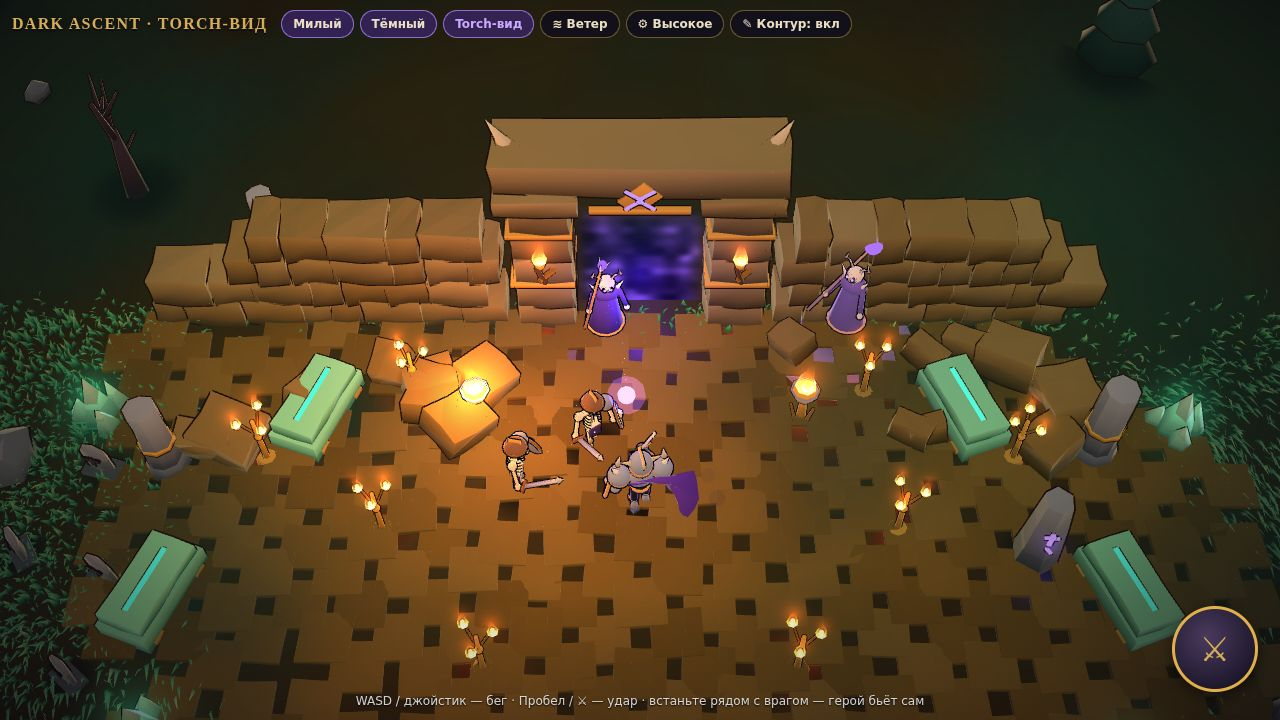
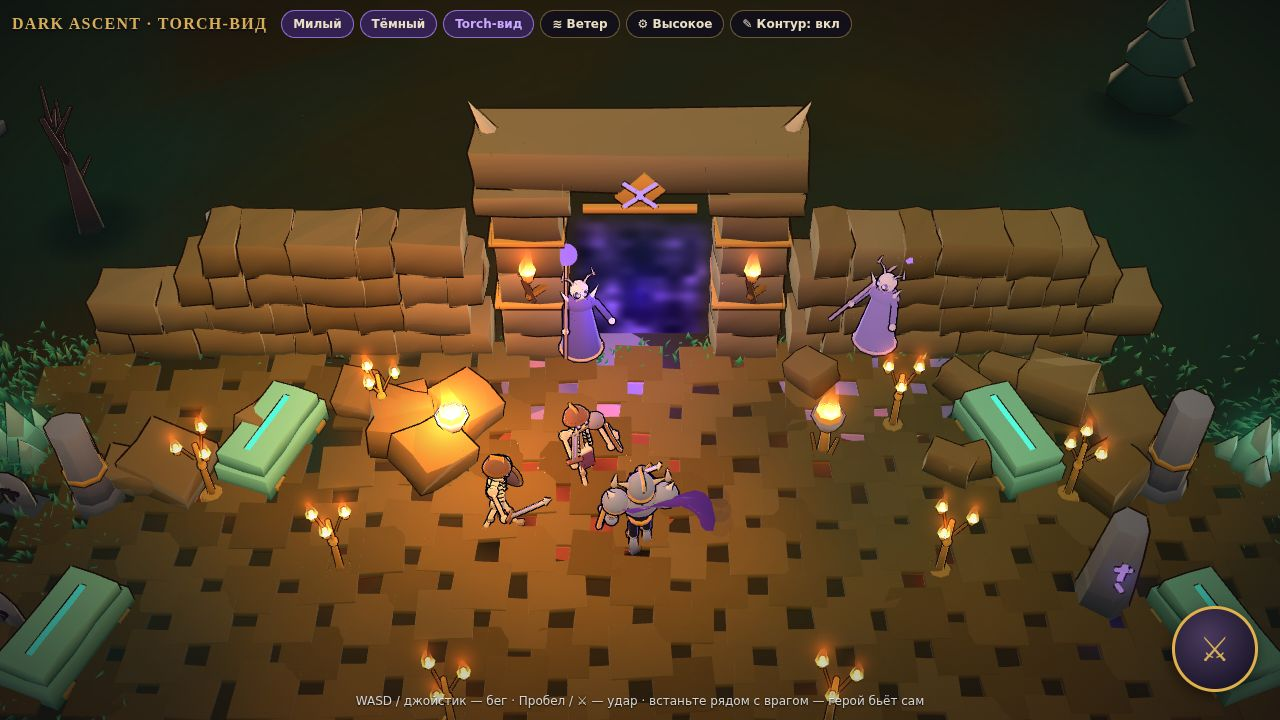
Torch look: lower camera pitch, 10% closer, hero lower in frame
Claude-Session: https://claude.ai/code/session_01MQCVpSgrSxb7Tpf8i263fP

diff --git a/lab/three/js/dark/main.js b/lab/three/js/dark/main.js
@@ -56,9 +56,9 @@ ui.outline.onclick = () => { state.outlines = !state.outlines; applyOutlines(); 
 ui.wind.onclick = () => { state.wind = (state.wind + 1) % WIND.length; applyWind(); };
 
 // ---------- camera: hero sits in the lower third so the tall gate stays in frame ----------
-const CAM_YAW = Math.PI / 4, CAM_PITCH = TORCH ? 0.95 : 0.74, AIM = TORCH ? 3.4 : 2.6;
+const CAM_YAW = Math.PI / 4, CAM_PITCH = TORCH ? 0.8 : 0.74, AIM = TORCH ? 4.2 : 2.6;
 const camTarget = new THREE.Vector3();
-const BASE = TORCH ? 31 : 15;
+const BASE = TORCH ? 28 : 15;
 let camDist = BASE, shake = 0;
 function resize() {
   const w = innerWidth, h = innerHeight; renderer.setSize(w, h, false); camera.aspect = w / h;
